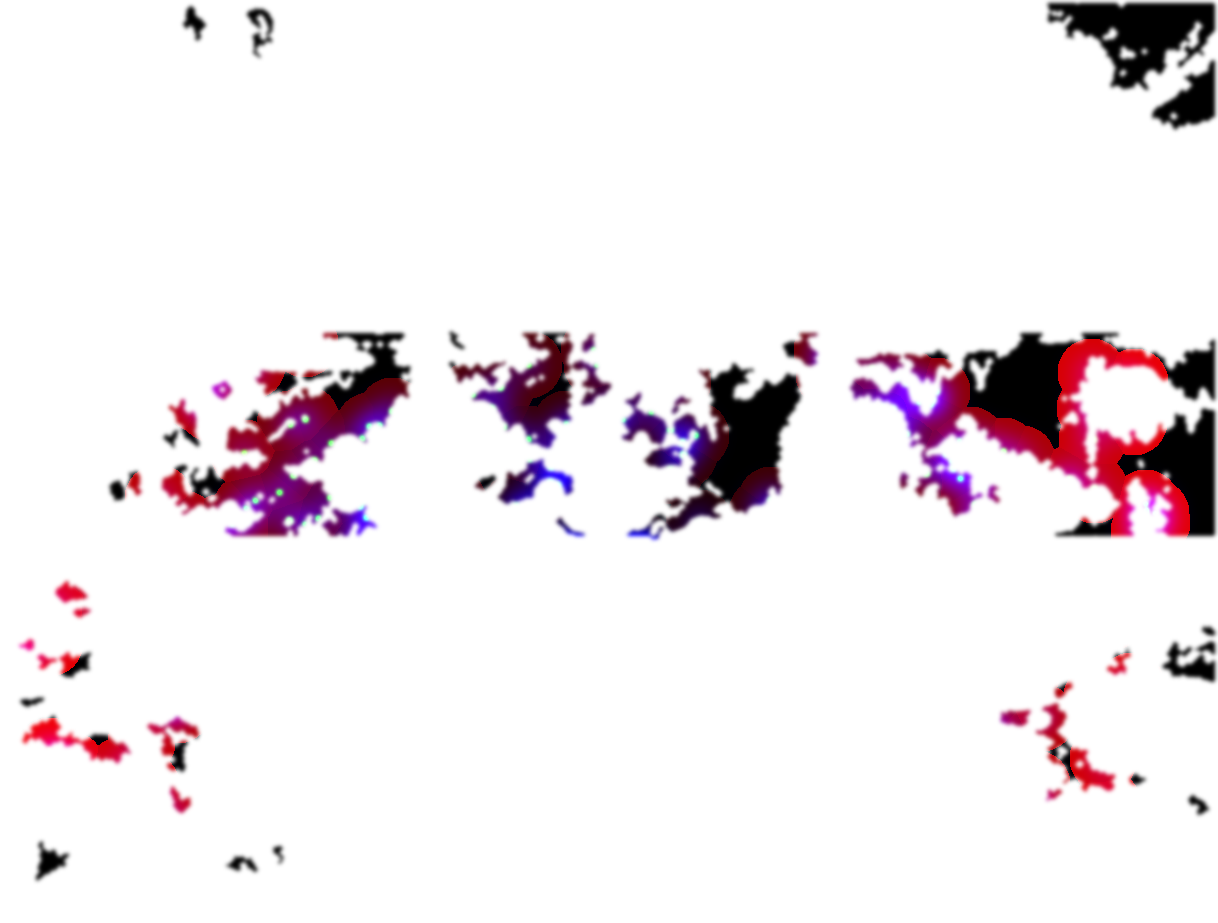
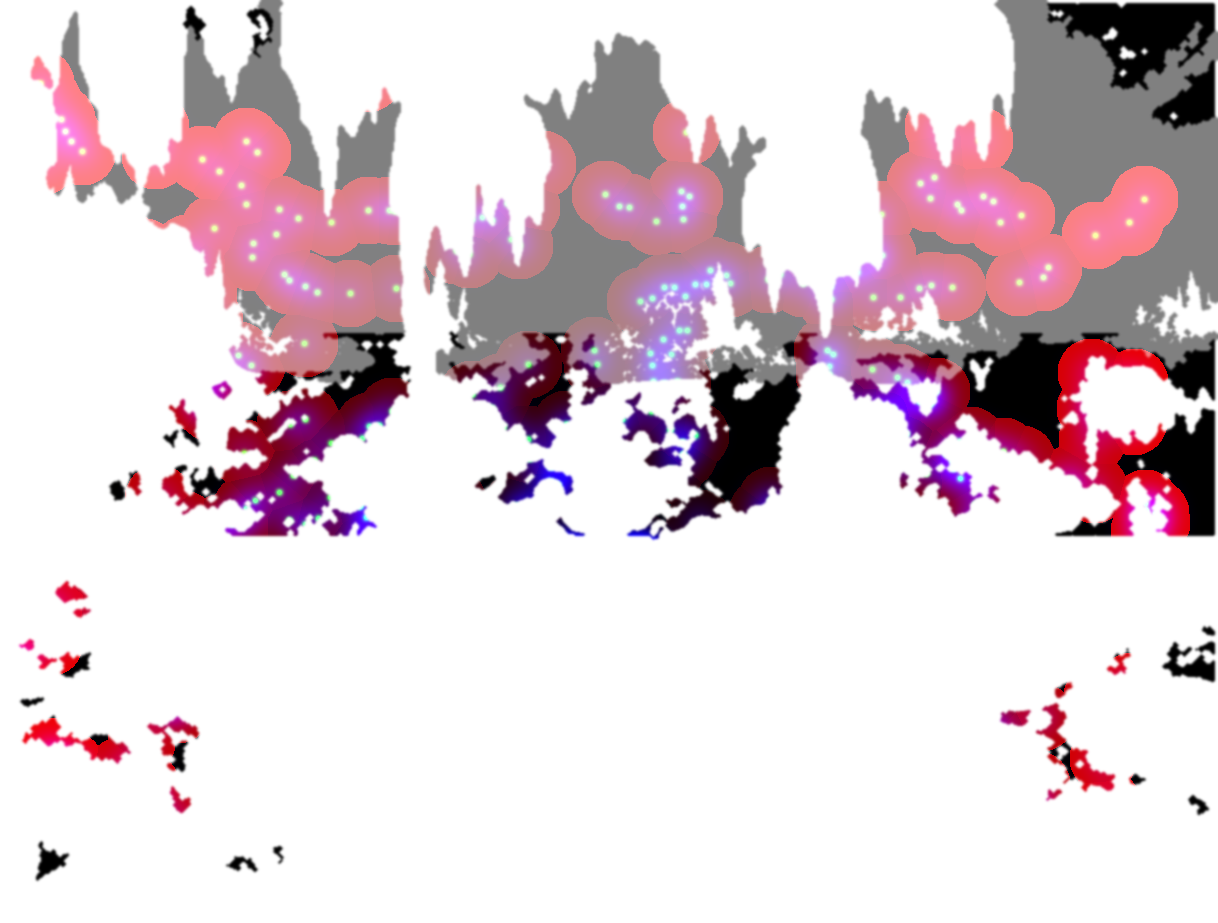
Realms: no floating markers (tap the painted places), looking at a place stays inside the painting, realms more alive (time of day, drifting clouds, flowing waterfalls, foliage gusts, glints, motes, fireflies always, brighter while asleep)

diff --git a/prototypes/p2-spikes/SpikeLab/Shell/HomeView.swift b/prototypes/p2-spikes/SpikeLab/Shell/HomeView.swift
@@ -36,8 +36,13 @@ struct HomeView: View {
             ZStack {
                 // The Sanctuary itself is drawn by the app's one 3D view, underneath (WorldLayer): this layer only
                 // catches touches (tap your Spark, look around).
-                Color.clear.contentShape(Rectangle()).ignoresSafeArea()
-                    .onTapGesture { director?.tapped() }
+                // Tap the world itself: a realm's places (its Keeper, its landmarks) answer where they're painted;
+                // anywhere else, your Spark reacts. No floating markers (Mathis).
+                GeometryReader { full in
+                    Color.clear.contentShape(Rectangle())
+                        .onTapGesture(coordinateSpace: .local) { p in tappedWorld(at: p, in: full.size) }
+                }
+                .ignoresSafeArea()
 
                 // The quests you took, waiting in the world as small glowing objects (they stay attached to their
                 // spot when you look around). Tap one to do it.
@@ -45,13 +50,6 @@ struct HomeView: View {
                     // Redrawn every frame only while quests are out and nothing covers them.
                     TimelineView(.animation(minimumInterval: nil, paused: (chosen.isEmpty && world == .sanctuary) || model.overlayOpen || !built)) { _ in
                         ZStack {
-                            // The realm's own places to explore (its Keeper, its landmarks), only in realms.
-                            if focused == nil {
-                                ForEach(RealmContent.spots(world)) { s in
-                                    Button { focus(s) } label: { SpotMarker(spot: s) }
-                                        .position(scene.screenPoint(world: s.uv, in: full.size))
-                                }
-                            }
                             ForEach(chosen) { call in
                                 Button { withAnimation(.sheet) { open = call } } label: { QuestObject(call: call) }
                                     .position(scene.screenPoint(world: spotFor(call), in: full.size))
@@ -120,17 +118,27 @@ struct HomeView: View {
         director = d
     }
 
-    /// Explore a realm's place: the camera glides to it and it tells its story.
+    /// A tap on the world: the nearest of the realm's places (within reach) tells its story; otherwise your Spark reacts.
+    private func tappedWorld(at p: CGPoint, in size: CGSize) {
+        if focused != nil { unfocus(); return }
+        let near = RealmContent.spots(world).map { s -> (Spot, CGFloat) in
+            let c = scene.screenPoint(world: s.uv, in: size); return (s, hypot(p.x - c.x, p.y - c.y))
+        }.min { $0.1 < $1.1 }
+        if let (s, d) = near, d < 70 { focus(s) } else { director?.tapped() }
+    }
+
+    /// Explore a realm's place: the view glides toward it, staying inside the painting (no edge ever), and it
+    /// tells its story.
     private func focus(_ s: Spot) {
         guard let rs = realmScene else { return }
         UIImpactFeedbackGenerator(style: .light).impactOccurred()
-        rs.panTarget = .zero
-        rs.focus = rs.spot(s.uv.x, s.uv.y)
+        let target = rs.spot(s.uv.x, s.uv.y)
+        rs.focus = nil
+        rs.panTarget = simd_clamp(SIMD2(target.x, target.y) * 0.8, -rs.panLimit, rs.panLimit)
         rs.hero.look(at: [s.uv.x < 0.5 ? -0.7 : 0.7, s.uv.y > 0.36 ? 0.5 : -0.3])
         withAnimation(.sheet) { focused = s }
     }
     private func unfocus() {
-        realmScene?.focus = nil
         realmScene?.hero.look(at: nil)
         withAnimation(.sheet) { focused = nil }
     }
@@ -239,7 +247,7 @@ struct HomeView: View {
     }
 
     @ViewBuilder private var hint: some View {
-        if model.tour != nil {
+        if model.tour != nil || focused != nil {
             EmptyView()
         } else if chosen.isEmpty && model.calls.contains(where: { !$0.done }) {
             Button { withAnimation(.sheet) { satchelOpen = true } } label: {
@@ -254,7 +262,7 @@ struct HomeView: View {
                 .foregroundStyle(.white)
             }
             .padding(.bottom, 10)
-        } else if let r = model.newHere.first(where: { $0 != world }) {
+        } else if focused == nil, let r = model.newHere.first(where: { $0 != world }) {
             Button { withAnimation(.screen) { model.go(.map) } } label: {
                 HStack(spacing: 8) {
                     Image(systemName: "sparkles").foregroundStyle(r.color)

diff --git a/prototypes/p2-spikes/SpikeLab/S3View.swift b/prototypes/p2-spikes/SpikeLab/S3View.swift
@@ -216,6 +216,18 @@ final class RealmScene {
 
         try await life.build()
         root.addChild(life.root)
+
+        // Soft glowing motes drifting close to you, in front of the whole realm (depth and air), as at home.
+        let motes = Entity()
+        var mp = ParticleEmitterComponent()
+        mp.emitterShape = .box; mp.emitterShapeSize = [0.5, 0.9, 0.25]
+        mp.emissionDirection = [0.3, 1, 0]; mp.speed = 0.012; mp.speedVariation = 0.008
+        mp.mainEmitter.birthRate = 5; mp.mainEmitter.lifeSpan = 7; mp.mainEmitter.lifeSpanVariation = 2
+        mp.mainEmitter.size = 0.011; mp.mainEmitter.sizeVariation = 0.007; mp.mainEmitter.blendMode = .additive
+        mp.mainEmitter.color = .evolving(start: .single(UIColor(red: 1, green: 0.85, blue: 0.6, alpha: 0.9)), end: .single(UIColor(red: 1, green: 0.7, blue: 0.4, alpha: 0.6)))
+        mp.mainEmitter.opacityCurve = .gradualFadeInOut
+        motes.components.set(mp); motes.position = [0, -0.05, -0.55]
+        root.addChild(motes)
         camera.camera.fieldOfViewInDegrees = Self.fov
         root.addChild(camera)
     }
@@ -277,9 +289,11 @@ final class RealmScene {
         if let painting, var comp = painting.model, var m = comp.materials.first as? CustomMaterial {
             m.custom.value = [r, vitality, flareOrder, flareAge]
             m.roughness = .init(floatLiteral: abs(life.wind))
+            m.clearcoat = .init(floatLiteral: max(0.0001, hero.hour / 24))   // the light of the hour (new realms)
+            m.specular = .init(floatLiteral: hx(0.5))                          // where the sun sits
             comp.materials = [m]; painting.model = comp
         }
-        let rate: Float = r < 0.25 ? 0 : ((r - 0.25) * 18).rounded()
+        let rate: Float = (r < 0.25 ? 2 : 2 + (r - 0.25) * 18).rounded()      // always a few: the realm is never still
         if rate != fliesRate, let flies, var f = flies.components[ParticleEmitterComponent.self] {   // only on change (smooth)
             fliesRate = rate; f.mainEmitter.birthRate = rate; flies.components.set(f)
         }

diff --git a/prototypes/p2-spikes/tools/build_realm.py b/prototypes/p2-spikes/tools/build_realm.py
@@ -127,7 +127,15 @@ water |= keepF[fl] & falls
 water = nd.binary_opening(water, iterations=1)
 lab2, n2 = nd.label(water); sz2 = nd.sum(water, lab2, range(1, n2 + 1))
 water = np.isin(lab2, np.where(sz2 > 80)[0] + 1)
-waterA = np.asarray(Image.fromarray((water * 255).astype(np.uint8)).filter(ImageFilter.GaussianBlur(2))).astype(float) / 255
+# Sky: far away (almost no depth), in the upper part, not water. Alpha: water = 1, sky = 0.5 (the shader tells them apart).
+dd = np.asarray(Image.open(f"{A}/{rid}-world-depth.png").convert("L").resize((w2, h2), Image.BILINEAR)).astype(float) / 255
+sky = (dd < 0.035) & (Y < h2 * 0.62) & ~water & (v > 0.3)
+sky = nd.binary_opening(sky, iterations=2)
+lab3, n3 = nd.label(sky); sz3 = nd.sum(sky, lab3, range(1, n3 + 1))
+sky = np.isin(lab3, np.where(sz3 > 400)[0] + 1)
+amap = np.where(water, 1.0, np.where(sky, 0.5, 0.0))
+waterA = np.asarray(Image.fromarray((amap * 255).astype(np.uint8)).filter(ImageFilter.GaussianBlur(1.2))).astype(float) / 255
+print("sky", round(sky.mean(), 3))
 out = np.dstack([order, core, pool, waterA]) * 255
 Image.fromarray(out.clip(0, 255).astype(np.uint8), "RGBA").save(f"{A}/{rid}-world-lights.png")
 json.dump([{"u": b[0] / w2, "v": 1 - b[1] / h2, "size": b[2]} for b in blobs], open(f"{A}/{rid}-lights.json", "w"))
